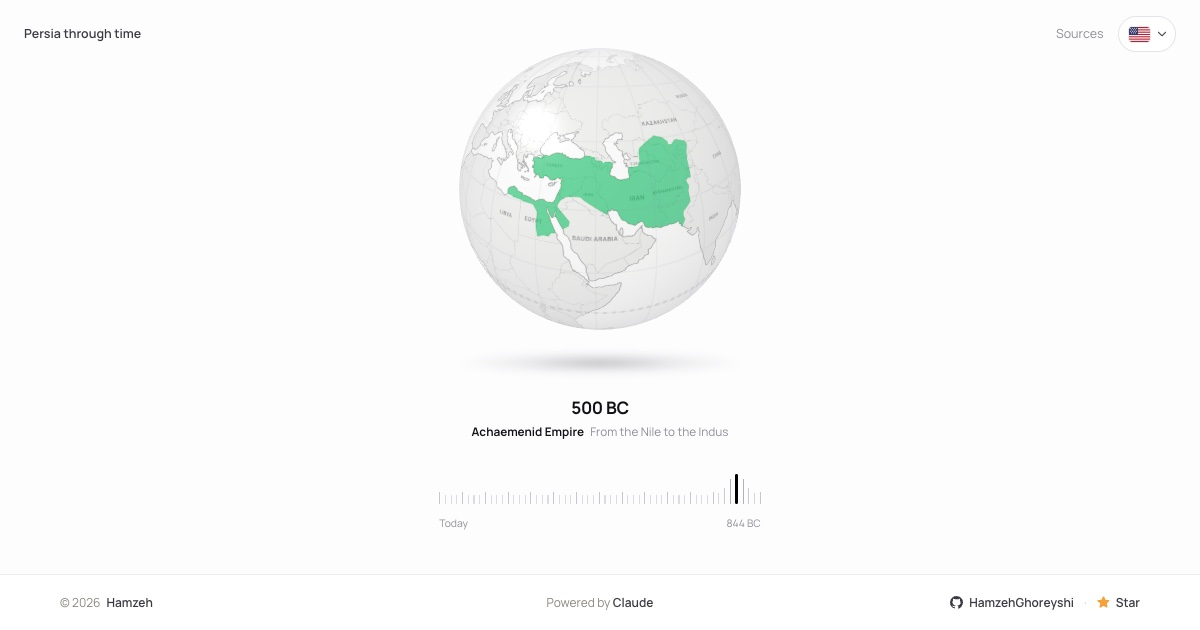
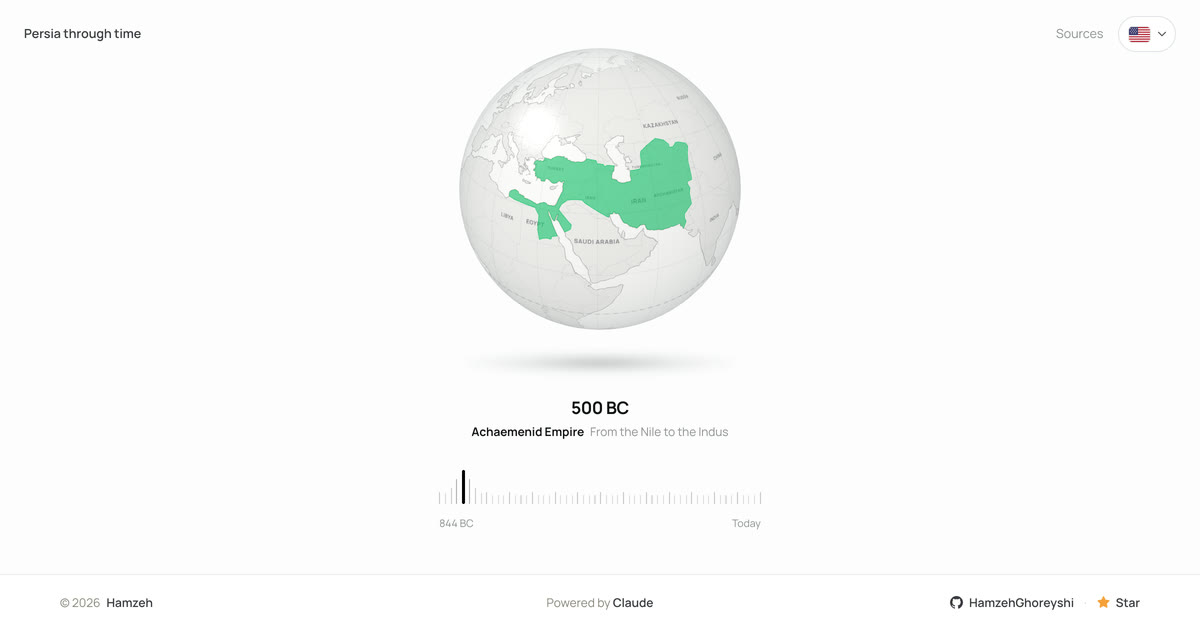
Publish: README animation and screenshots, video recorder, refreshed share image

diff --git a/README.md b/README.md
@@ -1,9 +1,23 @@
 # Persia through time
 
+<p align="center">
+  <img src="docs/persia-through-time.gif" width="100%" alt="A white globe spins from stop to stop while Persia's borders change: Parsua in 844 BC, the Achaemenid Empire, Alexander, the Parthians, the Sasanians, the Safavids, and Iran today. A tick ruler under the globe marks the year.">
+</p>
+
+**Live:** https://iran-map-timelaps.vercel.app · Persian: https://iran-map-timelaps.vercel.app/?lang=fa
+
 A small interactive globe that shows how the map of Persia (Iran) changed over 2,800 years, from the first written record of the Persians in 844 BC to Iran today. Move over the ruler, drag it, or use the arrow keys.
 
-- English by default, Persian at `?lang=fa`.
-- Built with Vite, vanilla JavaScript and plain WebGL 2. No framework or 3D library; the first load is about 100 KB.
+![The app in English: the Achaemenid Empire in 500 BC](docs/app-en.jpg)
+
+![The app in Persian](docs/app-fa.jpg)
+
+## How it works
+
+- 15 stops. Each one is a snapshot of one real year in the border data; nothing is drawn by hand.
+- The map underneath is always today's countries, very faint. Persia of each year is a see-through overlay on top, so you can read which modern countries it covered.
+- The globe is one sphere drawn with plain WebGL 2 and one shader; the map is painted on 2D canvases. Between stops it makes a full spin with motion blur. No framework or 3D library: the first load is about 100 KB.
+- English by default, Persian at `?lang=fa` (right-to-left, Persian digits). `?stop=<id>` opens a given stop.
 
 ## Run
 
@@ -13,6 +27,18 @@ npm run dev
 ```
 
 `npm run data` rebuilds `public/map.json` from the border files (downloaded into `tools/source-data/`).
+
+## Record the video
+
+`tools/record.mjs` films the timelapse frame by frame (60 fps, no dropped frames, no top bar or footer). It needs Google Chrome and ffmpeg.
+
+```bash
+npm run build
+npm i --no-save puppeteer-core
+node tools/record.mjs exports/portrait.mp4 540 675
+```
+
+The two numbers are the page size; the video is twice that (here 1080×1350). Add `fa` at the end for Persian.
 
 ## Credits
 
